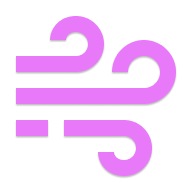
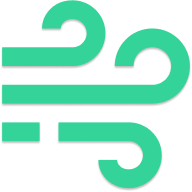
theme switcher working.

diff --git a/src/styles/global.css b/src/styles/global.css
@@ -1,7 +1,9 @@
-@import url('https://fonts.googleapis.com/css2?family=Lato:ital,wght@0,100;0,300;0,400;0,700;0,900;1,100;1,300;1,400;1,700;1,900&family=Martian+Mono:wght@100;200;300;400;500;600;700;800&family=Noto+Color+Emoji&display=swap');
+@import url('https://fonts.googleapis.com/css2?family=JetBrains+Mono:ital,wght@0,100;0,200;0,300;0,400;0,500;0,600;0,700;0,800;1,100;1,200;1,300;1,400;1,500;1,600;1,700;1,800&family=Rubik:ital,wght@0,300;0,400;0,500;0,600;0,700;0,800;0,900;1,300;1,400;1,500;1,600;1,700;1,800;1,900&display=swap');
+
+/* @import url('https://fonts.googleapis.com/css2?family=Lato:ital,wght@0,100;0,300;0,400;0,700;0,900;1,100;1,300;1,400;1,700;1,900&family=Martian+Mono:wght@100;200;300;400;500;600;700;800&family=Noto+Color+Emoji&display=swap'); */
 
 /* Global variables */
 
 a {
-	@apply text-fuchsia-400;
+	@apply text-emerald-400;
 }

diff --git a/public/head.html b/public/head.html
@@ -2,4 +2,4 @@
 <link rel="icon" href="/favicon.svg" type="image/svg+xml">
 <link rel="apple-touch-icon" href="/apple-touch-icon.png">
 <link rel="manifest" href="/site.webmanifest">
-<meta name="theme-color" content="#e879f9">
+<meta name="theme-color" content="#34d399">

diff --git a/src/content/config.ts b/src/content/config.ts
@@ -23,5 +23,5 @@ const gridCollection = defineCollection({
 
 export const collections = {
 	'work': workCollection,
-	'grid': gridCollection
+	'grid': gridCollection,
 };

diff --git a/.astro/types.d.ts b/.astro/types.d.ts
@@ -273,7 +273,9 @@ declare module 'astro:content' {
 	};
 
 	type DataEntryMap = {
-		
+		"recipes": {
+};
+
 	};
 
 	type AnyEntryMap = ContentEntryMap & DataEntryMap;
